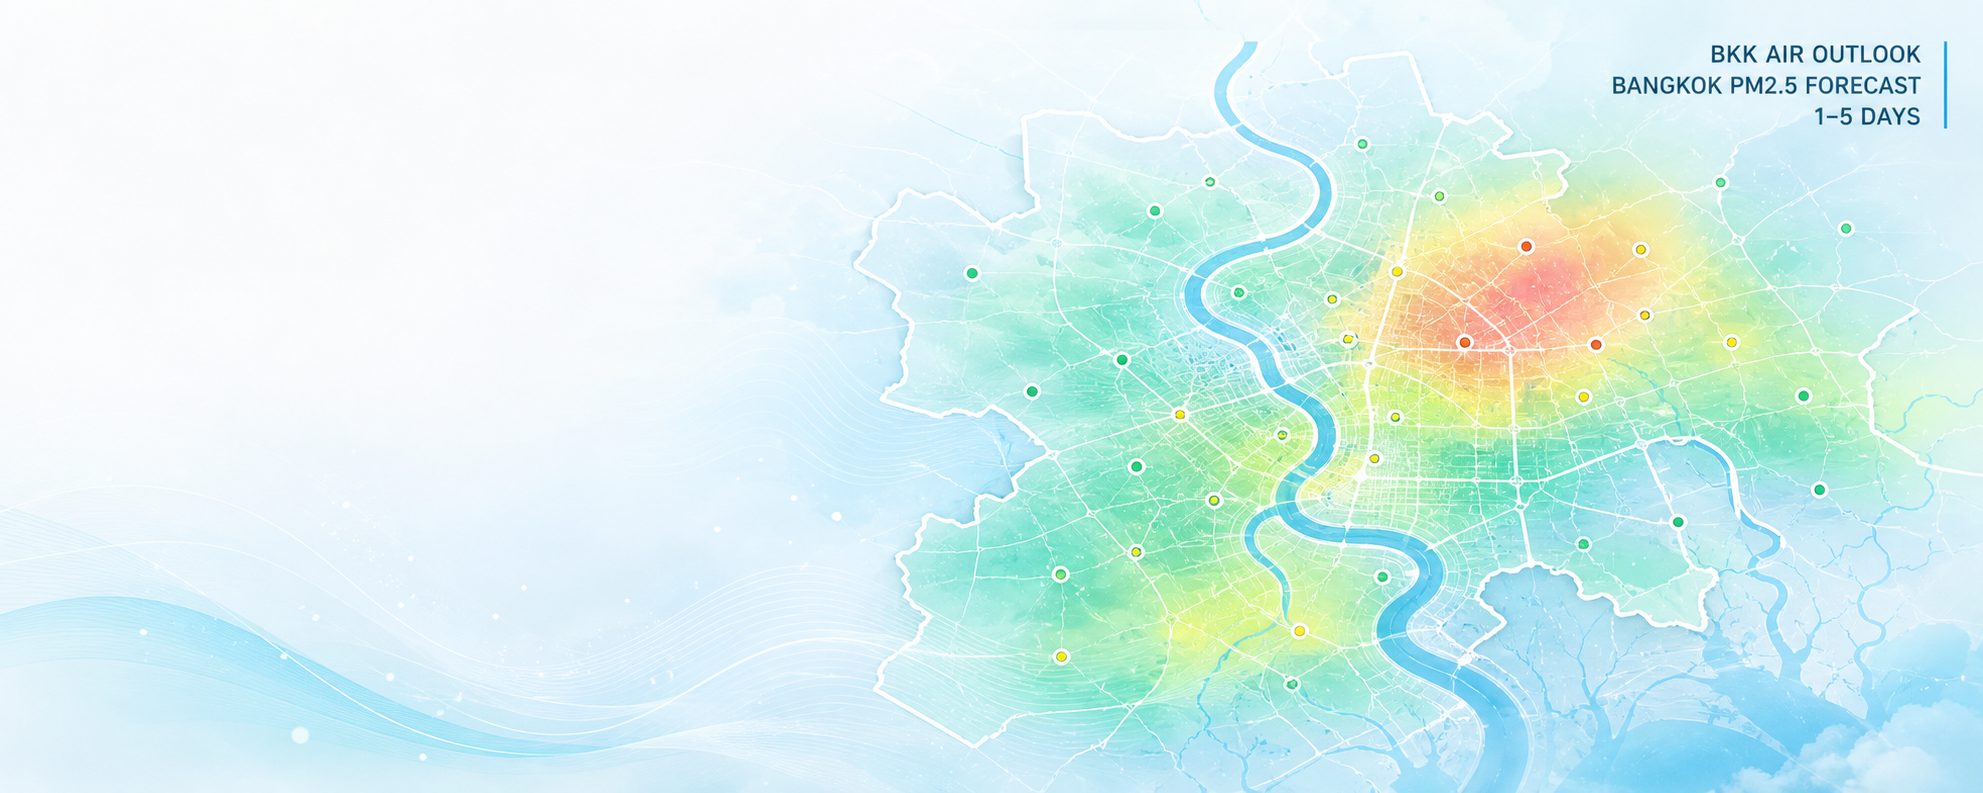
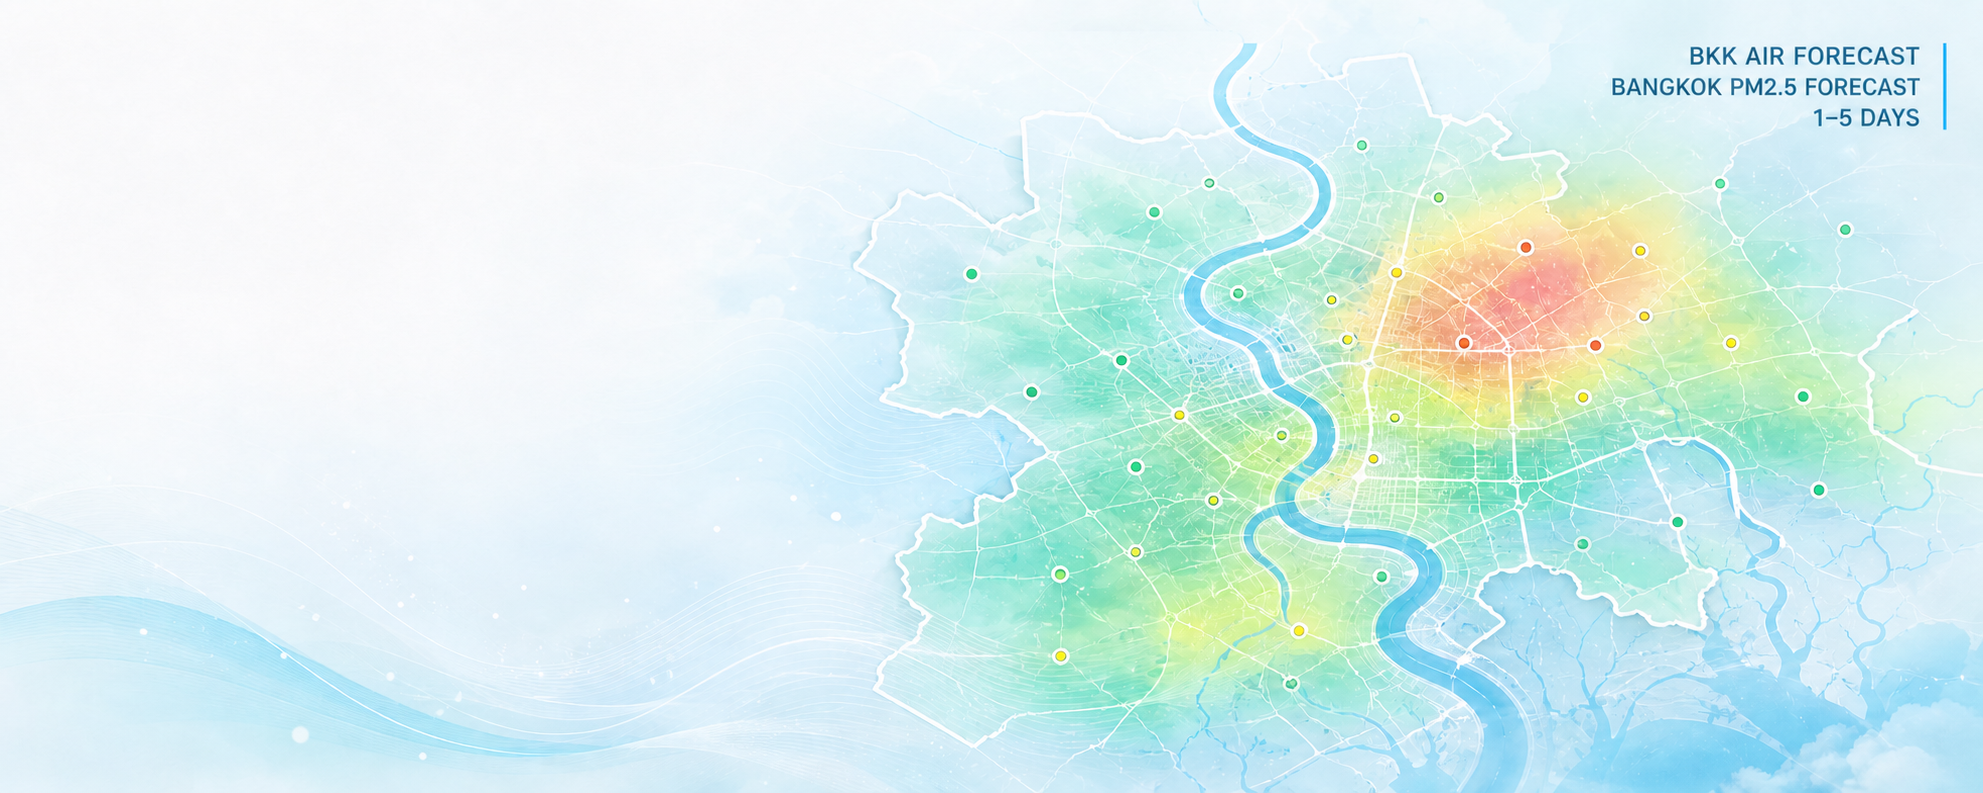
Rename site to BKK Air Forecast

diff --git a/app/layout.tsx b/app/layout.tsx
@@ -7,7 +7,7 @@ export async function generateMetadata(): Promise<Metadata> {
   const host = requestHeaders.get("x-forwarded-host") ?? requestHeaders.get("host") ?? "localhost:5173";
   const protocol = requestHeaders.get("x-forwarded-proto") ?? (host.startsWith("localhost") ? "http" : "https");
   const origin = `${protocol}://${host}`;
-  const title = "BKK Outlook — พยากรณ์ฝุ่นและฝนกรุงเทพฯ";
+  const title = "BKK Air Forecast — พยากรณ์ฝุ่นและฝนกรุงเทพฯ";
   const description = "ศูนย์รวมพยากรณ์ฝุ่น PM2.5 และฝนกรุงเทพฯ ล่วงหน้า 1–5 วัน เพื่อช่วยวางแผนก่อนออกจากบ้าน";
 
   return {
@@ -21,7 +21,7 @@ export async function generateMetadata(): Promise<Metadata> {
       title,
       description,
       type: "website",
-      images: [{ url: `${origin}/og-home.png`, width: 1733, height: 907, alt: "BKK Outlook air and rain forecast for Bangkok" }],
+      images: [{ url: `${origin}/og-home.png`, width: 1733, height: 907, alt: "BKK Air Forecast for Bangkok air quality and rain" }],
     },
     twitter: {
       card: "summary_large_image",

diff --git a/app/rain/page.tsx b/app/rain/page.tsx
@@ -7,7 +7,7 @@ export async function generateMetadata(): Promise<Metadata> {
   const host = requestHeaders.get("x-forwarded-host") ?? requestHeaders.get("host") ?? "localhost:5173";
   const protocol = requestHeaders.get("x-forwarded-proto") ?? (host.startsWith("localhost") ? "http" : "https");
   const origin = `${protocol}://${host}`;
-  const title = "BKK Rain Outlook — พยากรณ์ฝนกรุงเทพฯ 1–5 วัน";
+  const title = "BKK Air Forecast — พยากรณ์ฝนกรุงเทพฯ 1–5 วัน";
   const description = "แผนที่พยากรณ์โอกาสฝนและปริมาณฝนสะสมกรุงเทพฯ ล่วงหน้า 1–5 วัน พร้อมช่วงเวลาที่ควรเฝ้าระวัง";
 
   return {
@@ -17,7 +17,7 @@ export async function generateMetadata(): Promise<Metadata> {
       title,
       description,
       type: "website",
-      images: [{ url: `${origin}/og-rain.png`, width: 1967, height: 799, alt: "BKK Rain Outlook Bangkok rain forecast" }],
+      images: [{ url: `${origin}/og-rain.png`, width: 1967, height: 799, alt: "BKK Air Forecast Bangkok rain forecast" }],
     },
     twitter: {
       card: "summary_large_image",

diff --git a/app/air/page.tsx b/app/air/page.tsx
@@ -7,7 +7,7 @@ export async function generateMetadata(): Promise<Metadata> {
   const host = requestHeaders.get("x-forwarded-host") ?? requestHeaders.get("host") ?? "localhost:5173";
   const protocol = requestHeaders.get("x-forwarded-proto") ?? (host.startsWith("localhost") ? "http" : "https");
   const origin = `${protocol}://${host}`;
-  const title = "BKK Air Outlook — พยากรณ์ฝุ่นกรุงเทพฯ 1–5 วัน";
+  const title = "BKK Air Forecast — พยากรณ์ฝุ่นกรุงเทพฯ 1–5 วัน";
   const description = "แผนที่พยากรณ์ PM2.5 กรุงเทพฯ ล่วงหน้า 1–5 วัน พร้อมค่าเฉลี่ย สภาพอากาศ และพื้นที่เฝ้าระวัง";
 
   return {
@@ -17,7 +17,7 @@ export async function generateMetadata(): Promise<Metadata> {
       title,
       description,
       type: "website",
-      images: [{ url: `${origin}/og-air.png`, width: 1983, height: 793, alt: "BKK Air Outlook live PM2.5 forecast map" }],
+      images: [{ url: `${origin}/og-air.png`, width: 1983, height: 793, alt: "BKK Air Forecast live PM2.5 forecast map" }],
     },
     twitter: {
       card: "summary_large_image",

diff --git a/app/page.tsx b/app/page.tsx
@@ -7,13 +7,13 @@ export default function Home() {
       <div className="home-glow home-glow-two" aria-hidden="true" />
 
       <header className="home-header">
-        <Link className="home-brand" href="/" aria-label="BKK Outlook หน้าหลัก">
+        <Link className="home-brand" href="/" aria-label="BKK Air Forecast หน้าหลัก">
           <span className="home-brand-mark" aria-hidden="true">
             <i />
             <i />
           </span>
           <span>
-            <b>BKK OUTLOOK</b>
+            <b>BKK AIR FORECAST</b>
             <small>Bangkok environmental forecast</small>
           </span>
         </Link>
@@ -24,7 +24,7 @@ export default function Home() {
       </header>
 
       <section className="home-intro" aria-labelledby="home-title">
-        <p>BANGKOK ENVIRONMENTAL OUTLOOK</p>
+        <p>BANGKOK ENVIRONMENTAL FORECAST</p>
         <h1 id="home-title">มองกรุงเทพฯ ล่วงหน้า<br />ก่อนออกจากบ้าน</h1>
         <div className="home-intro-bottom">
           <span>เลือกเรื่องที่ต้องการติดตาม</span>

diff --git a/app/rain/rain-dashboard.tsx b/app/rain/rain-dashboard.tsx
@@ -473,7 +473,7 @@ export default function RainDashboard() {
     <main className="app-shell rain-shell">
       <header className={`dashboard-banner rain-banner ${dataState}`} id="top">
         <div className="banner-copy">
-          <span className="banner-kicker">BKK RAIN OUTLOOK</span>
+          <span className="banner-kicker">BKK AIR FORECAST · RAIN</span>
           <h1>แผนที่พยากรณ์ <em>ฝนกรุงเทพฯ</em></h1>
           <p>เช็กโอกาสฝนและปริมาณฝนสะสมล่วงหน้า 1–5 วัน พร้อมช่วงเวลาที่ควรเฝ้าระวัง</p>
         </div>

diff --git a/app/forecast-dashboard.tsx b/app/forecast-dashboard.tsx
@@ -384,7 +384,7 @@ export default function ForecastDashboard() {
     <main className="app-shell">
       <header className={`dashboard-banner ${dataState}`} id="top">
         <div className="banner-copy">
-          <span className="banner-kicker">BKK AIR OUTLOOK</span>
+          <span className="banner-kicker">BKK AIR FORECAST</span>
           <h1>แผนที่พยากรณ์ <em>PM2.5 กรุงเทพฯ</em></h1>
           <p>ดูล่วงหน้า 1–5 วัน เลือกวันแล้วตรวจพื้นที่ที่ควรเฝ้าระวังได้ทันที</p>
         </div>

diff --git a/app/globals.css b/app/globals.css
@@ -27,7 +27,7 @@ body {
 button, input { font: inherit; }
 button { color: inherit; }
 
-/* BKK Outlook home */
+/* BKK Air Forecast home */
 body:has(.home-shell) {
   height: auto;
   min-height: 100%;
